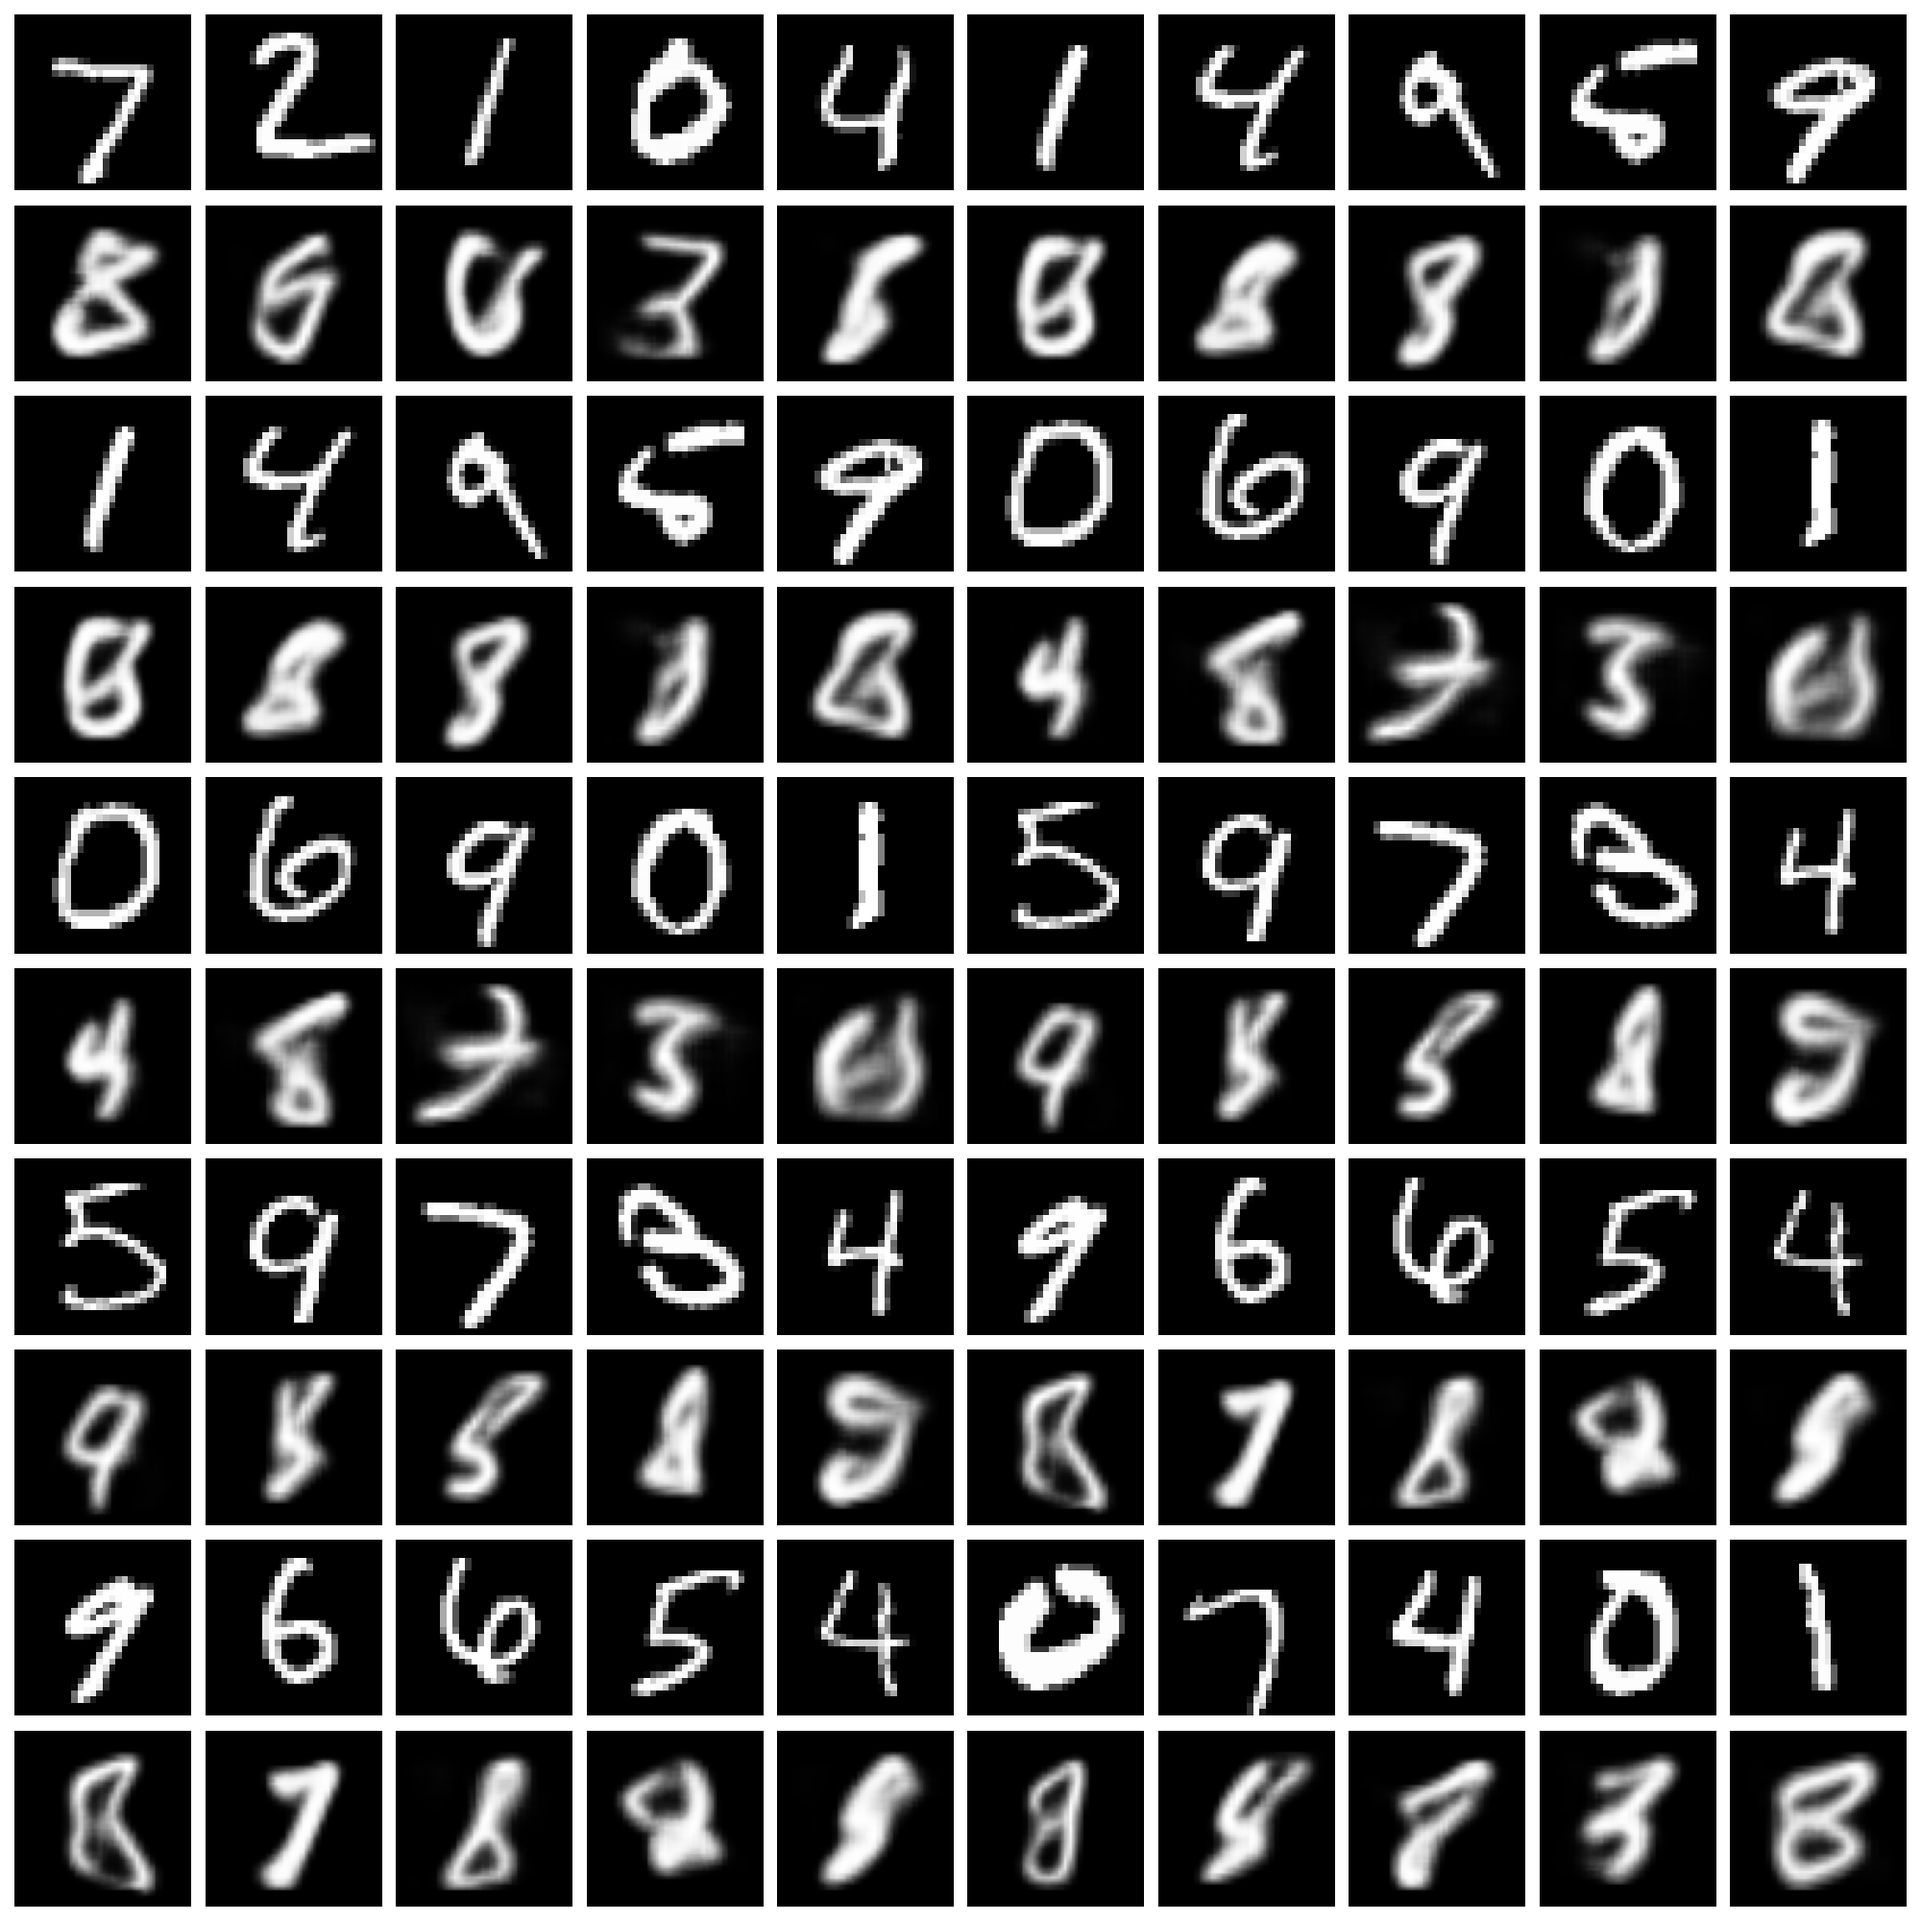
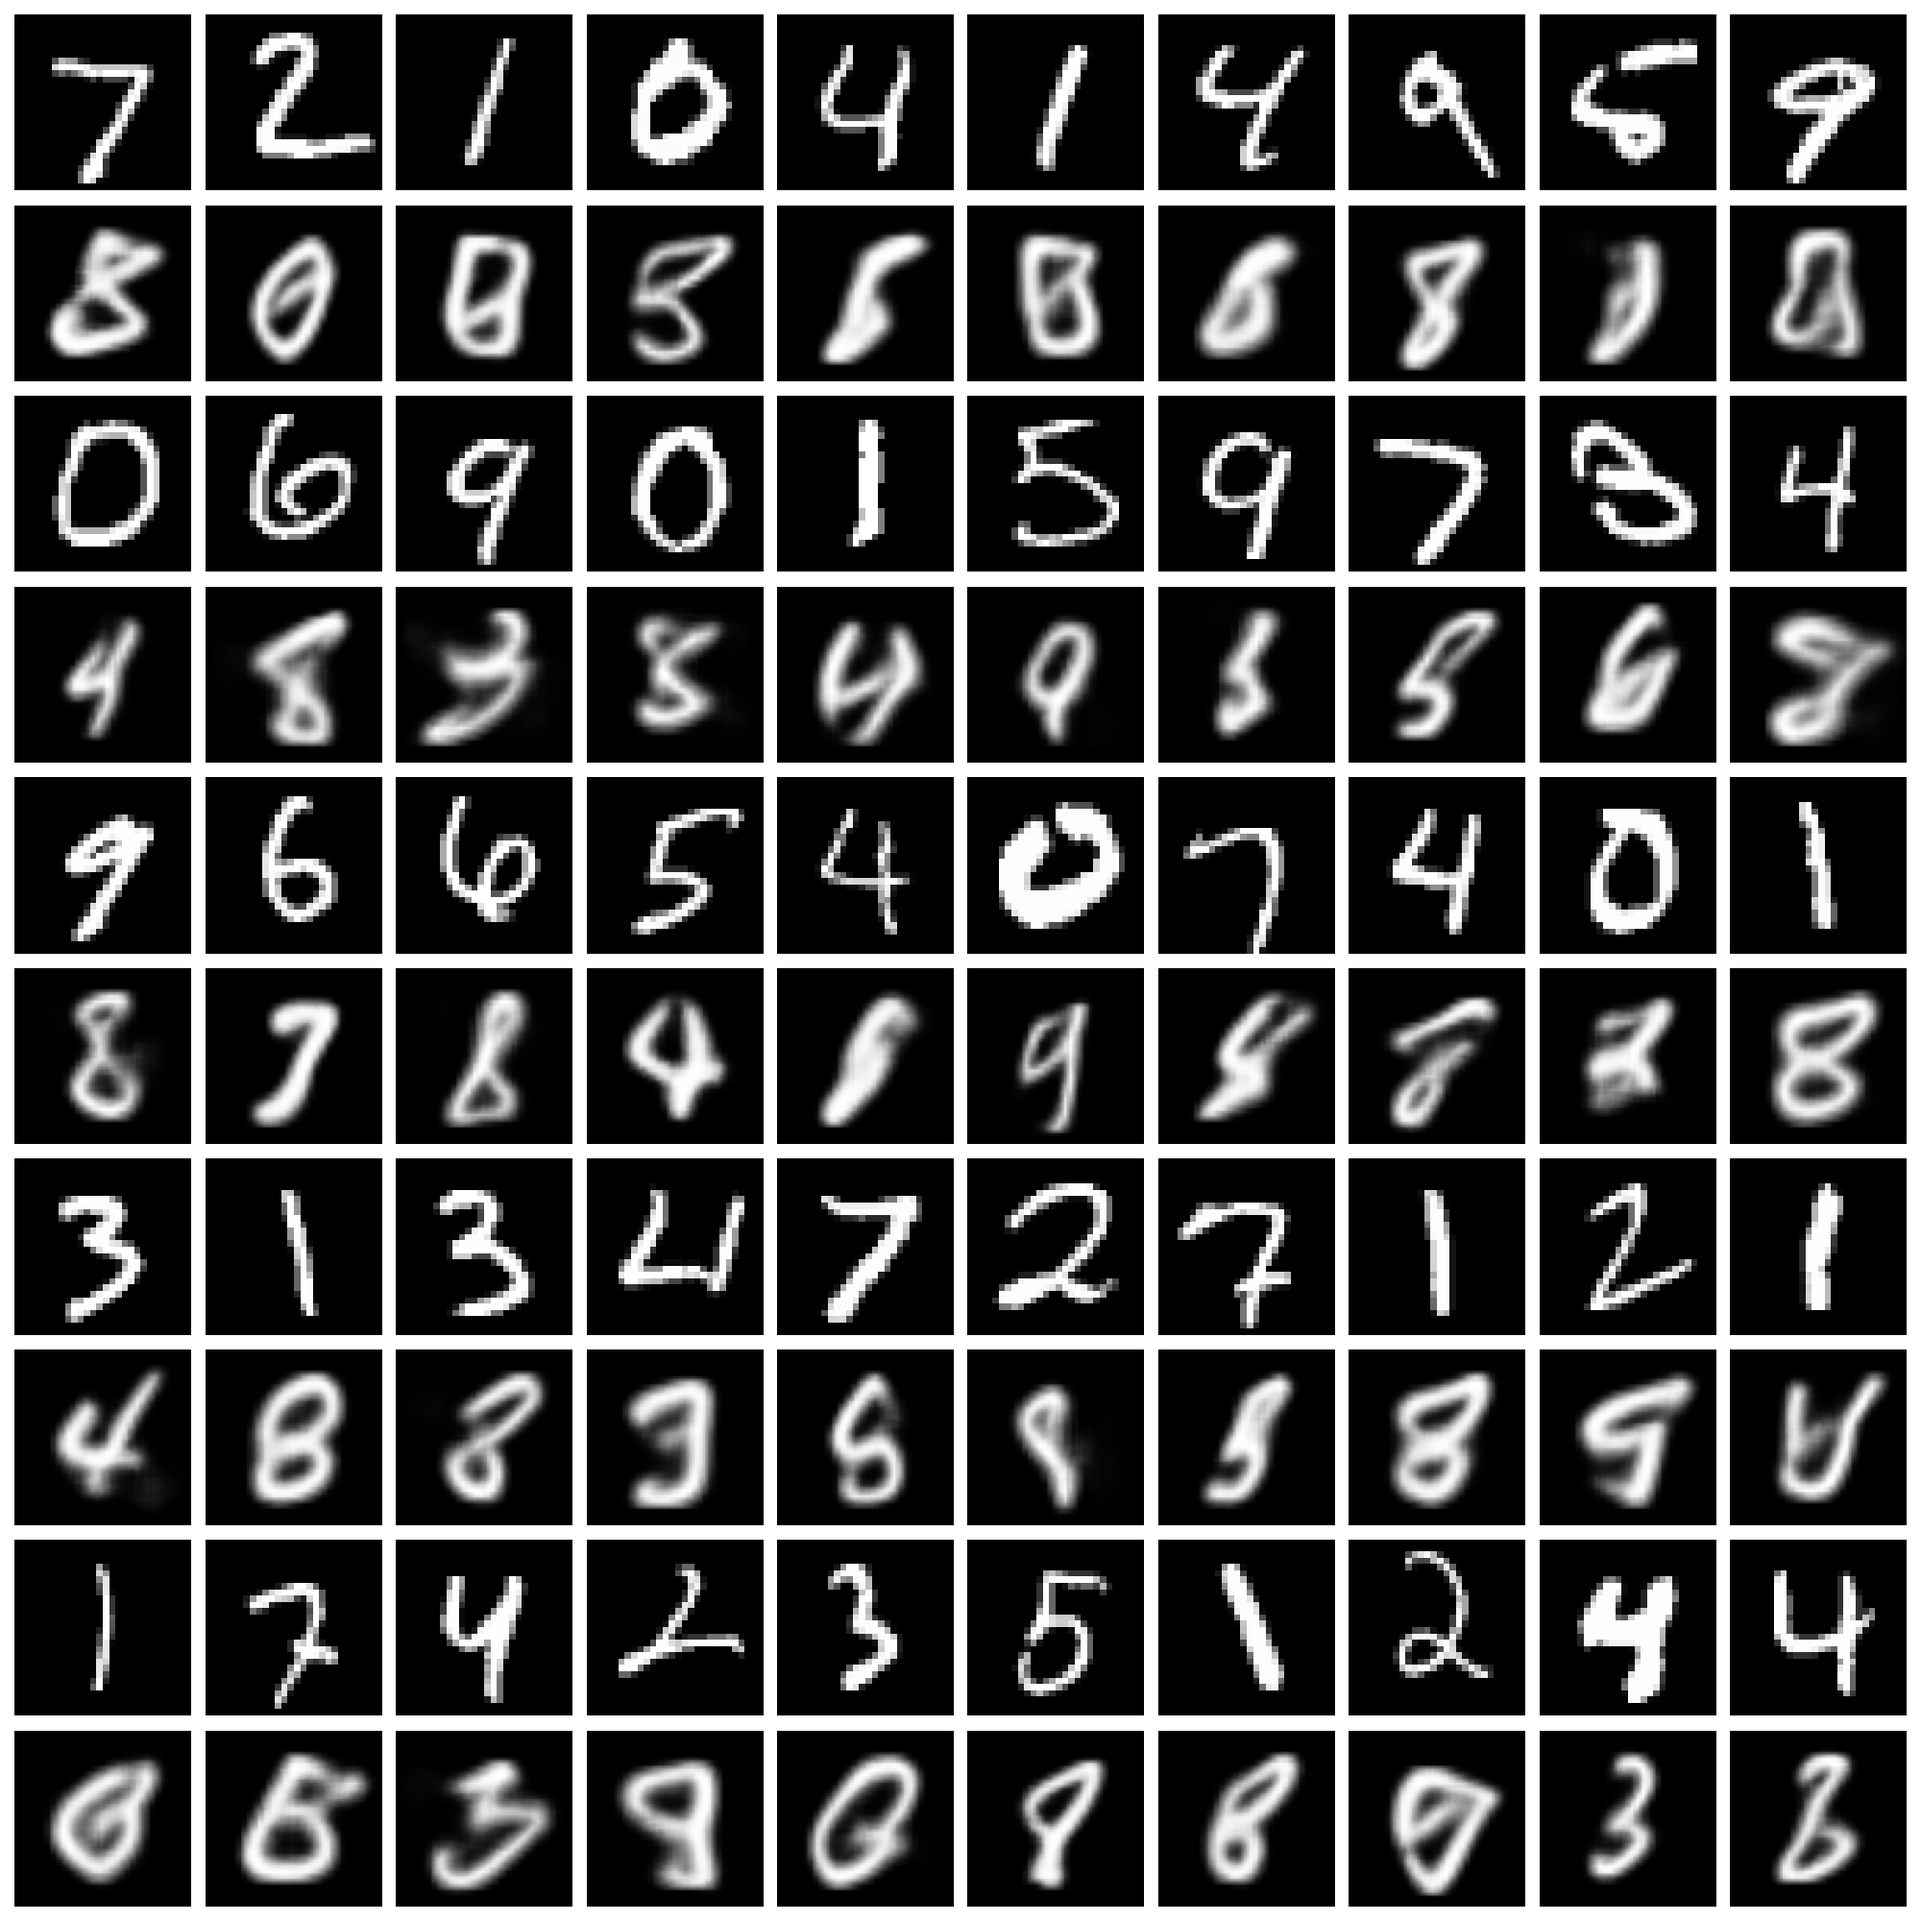
Fixes and file moves

diff --git a/Sources/Code/Translation/CDFTranslation.py b/Sources/Code/Translation/CDFTranslation.py
@@ -66,11 +66,11 @@ c = 0.5
 
 fig, axes = plt.subplots(nrows=10, ncols=10, figsize=(20, 20))
 
-for i in range(10):
+for i in range(5):
     for j in range(10):
-        idx = i * 5 + j
+        idx = i * 10 + j
         sample_img = x_test[idx:idx+1]  
-        z_test, _, _ = autoencoder.encoder.predict(sample_img)
+        _, _, z_test = autoencoder.encoder.predict(sample_img)
         z_test = z_test.flatten()
 
         u_test = map_to_uniform(z_test, cdf_functions)
